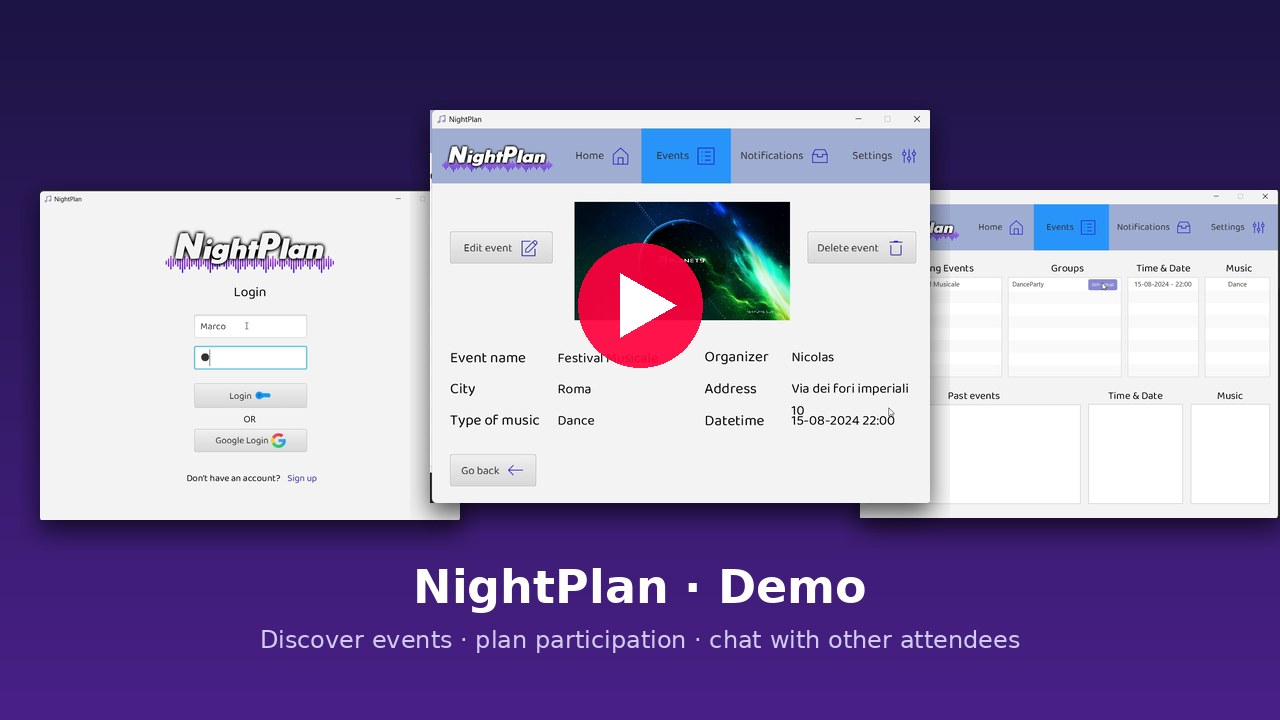
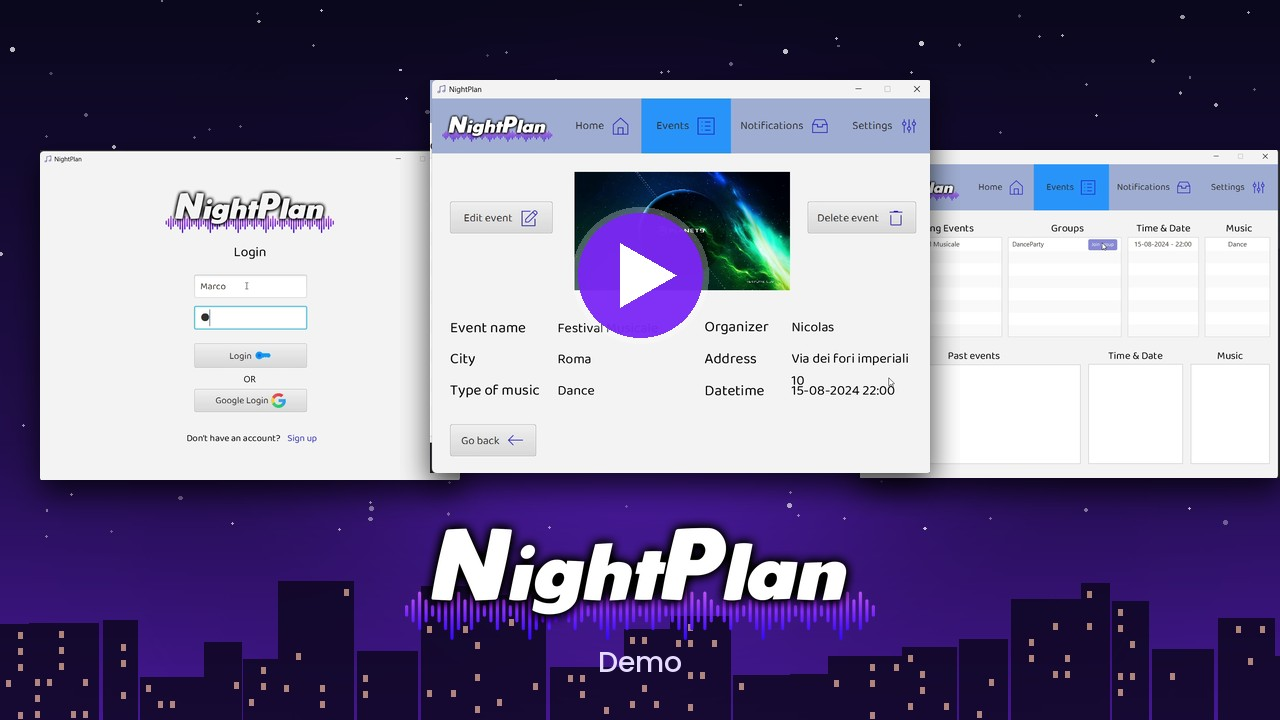
docs: add NightPlan branding to README and docs
- Banner with the NightPlan logo at the top of the README, centered
  badges and quick navigation
- Logo header on ARCHITECTURE, REQUIREMENTS and TECHNICAL_DESIGN
- Mermaid diagrams themed with the brand colours (readable in light
  and dark mode)
- New demo video thumbnail and a social preview image
- Transparent logo asset in docs/images/logo.png

diff --git a/README.md b/README.md
@@ -1,11 +1,26 @@
-# NightPlan: Musical Events & Shows Manager
+<p align="center">
+  <img src="docs/images/banner.png" alt="NightPlan: discover nightlife events, plan your night, meet other attendees" width="100%">
+</p>
 
-![Java](https://img.shields.io/badge/Java-21-ED8B00?logo=openjdk&logoColor=white)
-![JavaFX](https://img.shields.io/badge/JavaFX-21-3C5A99)
-![Maven](https://img.shields.io/badge/Maven-3.9+-C71A36?logo=apachemaven&logoColor=white)
-![MySQL](https://img.shields.io/badge/MySQL-8-4479A1?logo=mysql&logoColor=white)
-[![CI](https://github.com/DeveloperMatt02/NightPlan/actions/workflows/ci.yml/badge.svg)](https://github.com/DeveloperMatt02/NightPlan/actions/workflows/ci.yml)
-![License](https://img.shields.io/badge/License-MIT-green.svg)
+<h3 align="center">Musical events &amp; shows manager: a Java desktop app with real-time notifications and group chat</h3>
+
+<p align="center">
+  <img src="https://img.shields.io/badge/Java-21-ED8B00?logo=openjdk&logoColor=white" alt="Java 21">
+  <img src="https://img.shields.io/badge/JavaFX-21-3C5A99" alt="JavaFX 21">
+  <img src="https://img.shields.io/badge/Maven-3.9+-C71A36?logo=apachemaven&logoColor=white" alt="Maven">
+  <img src="https://img.shields.io/badge/MySQL-8-4479A1?logo=mysql&logoColor=white" alt="MySQL 8">
+  <a href="https://github.com/DeveloperMatt02/NightPlan/actions/workflows/ci.yml"><img src="https://github.com/DeveloperMatt02/NightPlan/actions/workflows/ci.yml/badge.svg" alt="CI"></a>
+  <img src="https://img.shields.io/badge/License-MIT-7B2FF7.svg" alt="MIT License">
+</p>
+
+<p align="center">
+  <a href="#overview">Overview</a> ·
+  <a href="#architecture">Architecture</a> ·
+  <a href="#screenshots">Screenshots</a> ·
+  <a href="#demo">Demo</a> ·
+  <a href="#getting-started">Getting Started</a> ·
+  <a href="#documentation">Documentation</a>
+</p>
 
 > Developed for the **Software Engineering and Web Design** course (*Ingegneria del Software e Progettazione Web*, A.Y. 2023/24),
 > B.Sc. in Computer Engineering at the **University of Rome Tor Vergata**.
@@ -16,6 +31,8 @@ Organizers get a single channel to publish events, reach users in real time and 
 <p align="center">
   <img src="docs/images/screenshots/event-organizer.png" alt="Event page (organizer view)" width="720">
 </p>
+
+<a id="overview"></a>
 
 ## 🚀 Overview
 
@@ -35,9 +52,12 @@ The project was designed with a full software-engineering process (user stories,
 7. **Authentication.** Classic registration (18+) or **Sign in with Google** (OAuth 2.0).
 8. **Two UIs, two persistence modes.** A JavaFX GUI and a complete command-line interface. Notifications can be stored in MySQL (JDBC) or in CSV files.
 
+<a id="architecture"></a>
+
 ## 🧠 Architecture
 
 ```mermaid
+%%{init: {'theme':'base','themeVariables':{'primaryColor':'#6D28D9','primaryTextColor':'#FFFFFF','primaryBorderColor':'#A78BFA','lineColor':'#8B5CF6','secondaryColor':'#4C1D95','tertiaryColor':'#F5F3FF','clusterBkg':'#F5F3FF','clusterBorder':'#A78BFA','edgeLabelBackground':'#4C1D95','textColor':'#1E1B4B','fontFamily':'Poppins, Segoe UI, sans-serif'}}}%%
 graph TD
     V["View<br/>JavaFX GUI · CLI"] --> GC["Graphic controllers<br/>(GC*)"]
     GC -->|beans| F{{"CFacade<br/>(Facade)"}}
@@ -60,6 +80,8 @@ graph TD
 
 More details in [docs/ARCHITECTURE.md](docs/ARCHITECTURE.md).
 
+<a id="screenshots"></a>
+
 ## 🖼 Screenshots
 
 | Login | Add event (organizer) |
@@ -67,6 +89,8 @@ More details in [docs/ARCHITECTURE.md](docs/ARCHITECTURE.md).
 | <img src="docs/images/screenshots/login.png" width="400"> | <img src="docs/images/screenshots/add-event.png" width="400"> |
 | **Event page (user)** | **Your events (user)** |
 | <img src="docs/images/screenshots/event-user.png" width="400"> | <img src="docs/images/screenshots/your-events.png" width="400"> |
+
+<a id="demo"></a>
 
 ## 🎥 Demo
 
@@ -81,6 +105,8 @@ More details in [docs/ARCHITECTURE.md](docs/ARCHITECTURE.md).
 * **Authentication:** [Google OAuth Client](https://github.com/googleapis/google-oauth-java-client)
 * **Build & quality:** Maven, JUnit 5, GitHub Actions, SonarCloud (during development)
 
+<a id="documentation"></a>
+
 ## 📖 Documentation
 
 * [Architecture Overview](docs/ARCHITECTURE.md)
@@ -88,6 +114,8 @@ More details in [docs/ARCHITECTURE.md](docs/ARCHITECTURE.md).
 * [Technical Design](docs/TECHNICAL_DESIGN.md): UML diagrams, exceptions, testing, design discrepancies
 * [Original Technical Documentation (PDF)](docs/NightPlan-Technical-Documentation.pdf)
 * [Course deliverables](docs/deliverables): storyboards and UML diagrams (PDF)
+
+<a id="getting-started"></a>
 
 ## 🚦 Getting Started
 

diff --git a/docs/ARCHITECTURE.md b/docs/ARCHITECTURE.md
@@ -1,3 +1,7 @@
+<p align="center">
+  <a href="../README.md"><img src="images/logo-badge.png" alt="NightPlan" width="300"></a>
+</p>
+
 # Architecture
 
 NightPlan is a **Java 21 / JavaFX desktop application** built on a layered **MVC architecture**
@@ -8,6 +12,7 @@ real-time notifications and chat messages to connected clients.
 ## High-level view
 
 ```mermaid
+%%{init: {'theme':'base','themeVariables':{'primaryColor':'#6D28D9','primaryTextColor':'#FFFFFF','primaryBorderColor':'#A78BFA','lineColor':'#8B5CF6','secondaryColor':'#4C1D95','tertiaryColor':'#F5F3FF','clusterBkg':'#F5F3FF','clusterBorder':'#A78BFA','edgeLabelBackground':'#4C1D95','textColor':'#1E1B4B','fontFamily':'Poppins, Segoe UI, sans-serif'}}}%%
 graph TD
     subgraph Client["Client (desktop app)"]
         GUI["JavaFX GUI<br/>view + FXML"] --> GC["Graphic controllers<br/>GC*"]

diff --git a/docs/TECHNICAL_DESIGN.md b/docs/TECHNICAL_DESIGN.md
@@ -1,3 +1,7 @@
+<p align="center">
+  <a href="../README.md"><img src="images/logo-badge.png" alt="NightPlan" width="300"></a>
+</p>
+
 # Technical Design
 
 This document collects the design artefacts produced for NightPlan: UML diagrams, exception handling,

diff --git a/docs/REQUIREMENTS.md b/docs/REQUIREMENTS.md
@@ -1,3 +1,7 @@
+<p align="center">
+  <a href="../README.md"><img src="images/logo-badge.png" alt="NightPlan" width="300"></a>
+</p>
+
 # Requirements
 
 This document summarises the **Software Requirements Specification** of NightPlan.
